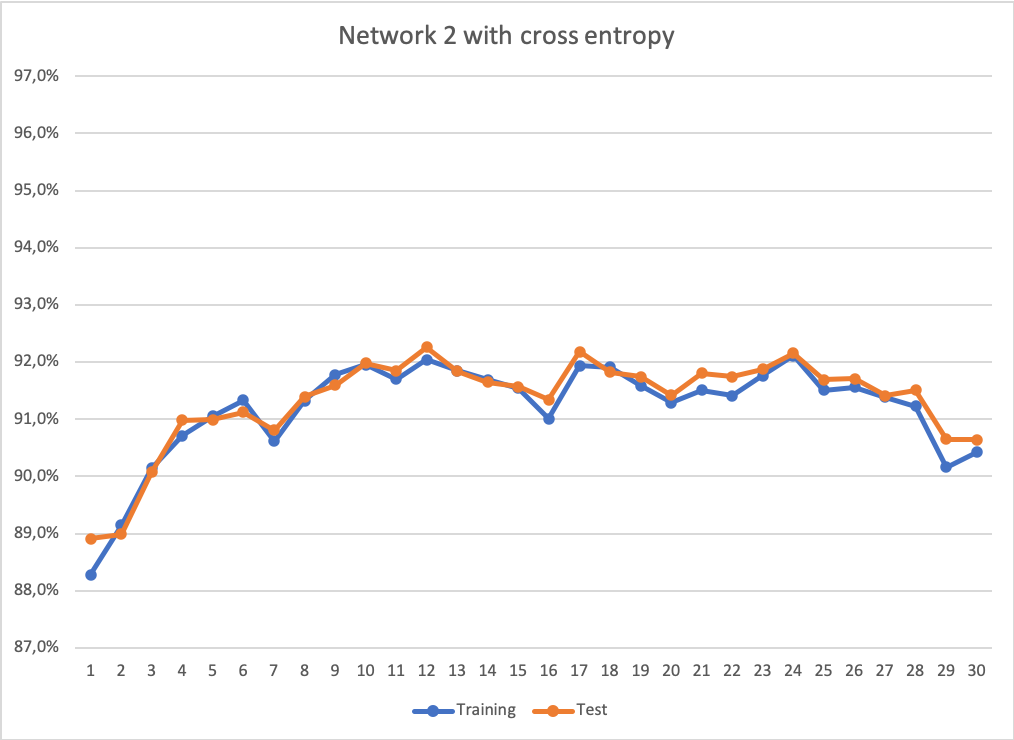
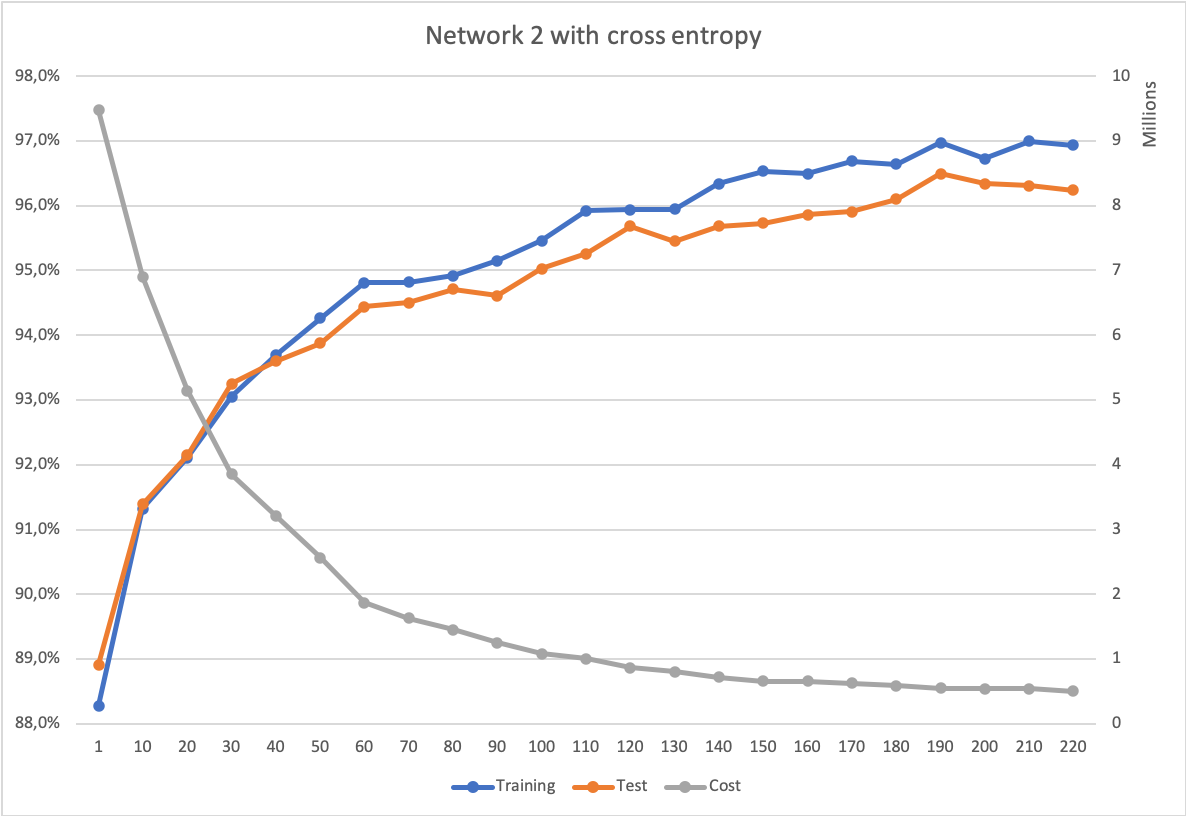
analysis

diff --git a/README.md b/README.md
@@ -15,7 +15,7 @@ A few notes on the results:
 
 ![Network 1](assets/network1.png)
 
-* Results on the second implementation (eq. `network2.py`) doesn't seem to go as high as the original implementation, the network reaching quickly a maximum after 6 epochs, no matter the parameters;
+* Results on the second implementation (eq. `network2.py`) finally went as high as the original implementation, but it took more epochs (rather 200 than 30), and a change of eta value (from 0.12 to 0.5) after the first 30 epochs, and still 300 neurons in the hidden layer;
 
 ![Network 2 with cross entropy](assets/network2-crossEntropy.png)
 
